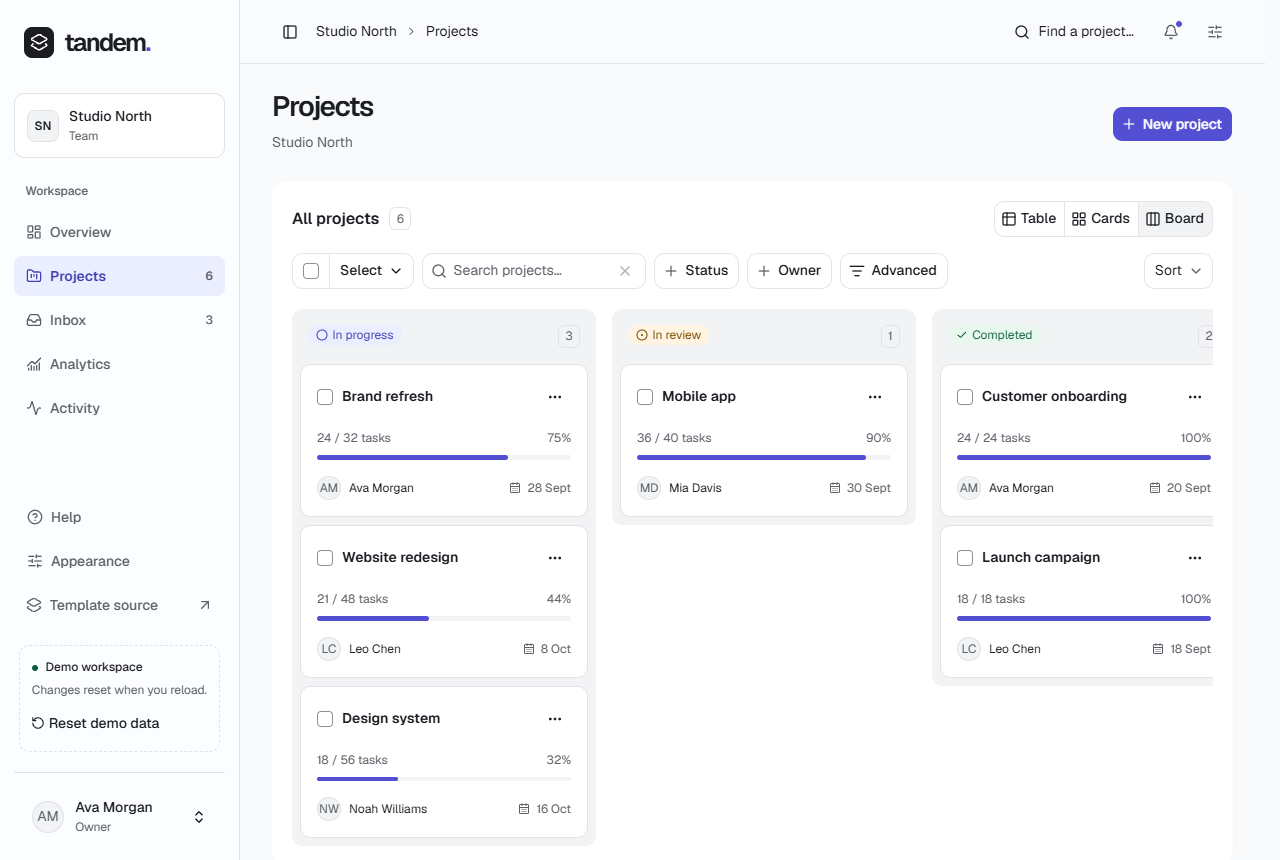
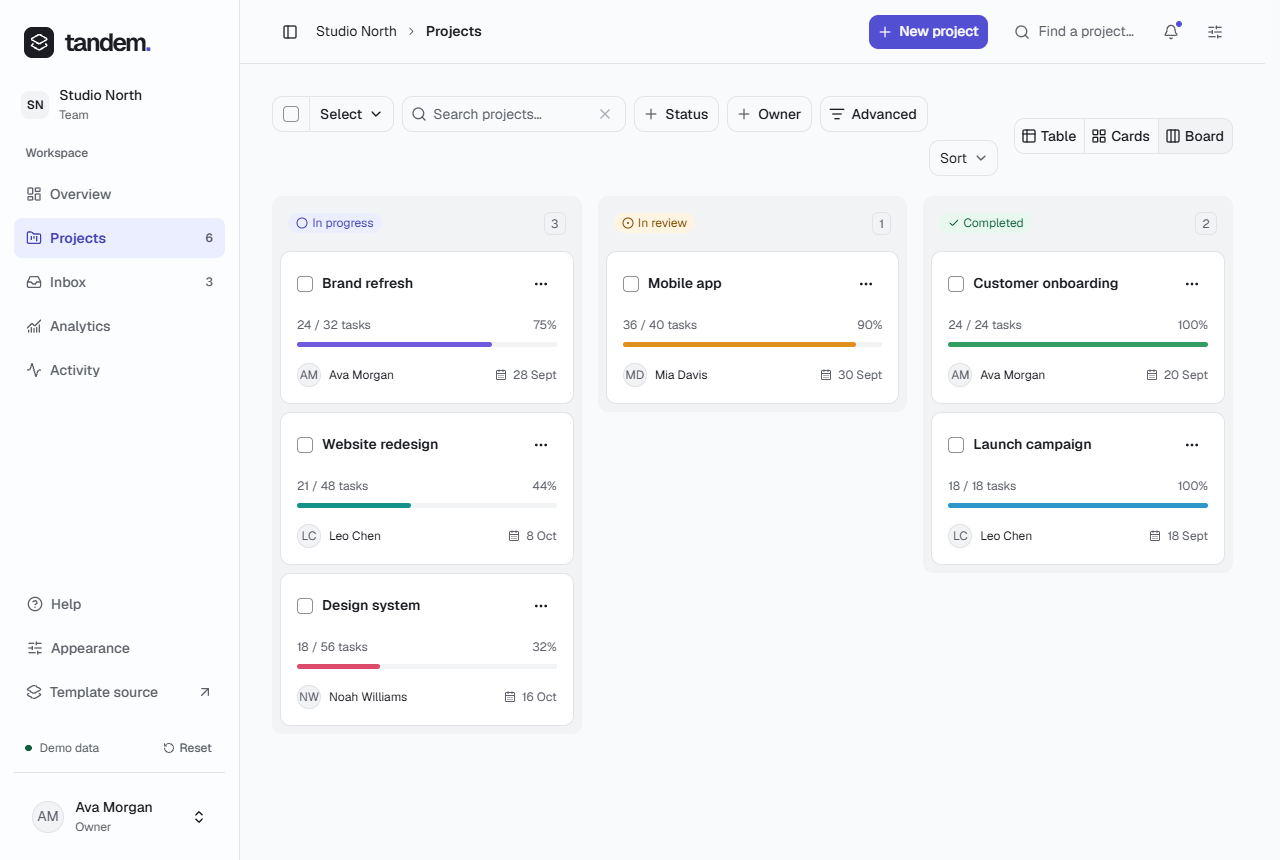
Colour the charts and add consistent motion
Map chart tokens 2-5 to the categorical hues so multi-series charts are
no longer grey, draw the completion trend as a smooth monotone curve
with the latest value marked, and give each project's bar its own hue,
thinner with rounded ends.

Add motion tokens (--motion-fast, --ease-standard) for hover transitions
on navigation, rows and the account trigger, and a short fade when
switching Table, Cards and Board; reduced motion still removes it.

Refresh the product screenshots for the updated workspace.

Validation: Analytics in light and Overview in dark at 1440px; 92
tests, TypeScript, ESLint, Prettier and the build pass; anti-slop
findings unchanged.

diff --git a/src/features/overview/completion-chart.tsx b/src/features/overview/completion-chart.tsx
@@ -129,7 +129,7 @@ export function CompletionChart({
                   <stop
                     offset="0%"
                     stopColor="var(--color-completed)"
-                    stopOpacity={0.18}
+                    stopOpacity={0.24}
                   />
                   <stop
                     offset="100%"
@@ -162,11 +162,18 @@ export function CompletionChart({
                 }
               />
               <Area
-                type="linear"
+                type="monotone"
                 dataKey="completed"
                 stroke="var(--color-completed)"
                 fill={`url(#${gradientId})`}
                 strokeWidth={2}
+                dot={(dot) => (
+                  <LatestPoint
+                    key={dot.index}
+                    {...dot}
+                    last={series.length - 1}
+                  />
+                )}
                 isAnimationActive={false}
               />
             </AreaChart>
@@ -188,5 +195,31 @@ export function CompletionChart({
         </Button>
       </CardFooter>
     </Card>
+  )
+}
+
+/** Marks the most recent day; earlier days stay part of the line. */
+function LatestPoint({
+  cx,
+  cy,
+  index,
+  last,
+}: {
+  cx?: number
+  cy?: number
+  index?: number
+  last: number
+}) {
+  if (index !== last || cx === undefined || cy === undefined) return <g />
+
+  return (
+    <circle
+      cx={cx}
+      cy={cy}
+      r={4}
+      fill="var(--color-completed)"
+      stroke="var(--card)"
+      strokeWidth={2}
+    />
   )
 }

diff --git a/src/features/analytics/project-breakdown.tsx b/src/features/analytics/project-breakdown.tsx
@@ -1,5 +1,13 @@
 import { useMemo, type ReactNode } from "react"
-import { Bar, BarChart, XAxis, YAxis, CartesianGrid, LabelList } from "recharts"
+import {
+  Bar,
+  BarChart,
+  CartesianGrid,
+  Cell,
+  LabelList,
+  XAxis,
+  YAxis,
+} from "recharts"
 import {
   ChartContainer,
   ChartTooltip,
@@ -11,11 +19,14 @@ import { BreakdownCard } from "./breakdown-card"
 
 export function ProjectBreakdown({
   rows,
+  colorFor,
   renderName,
   showData,
   onShowDataChange,
 }: {
   rows: CompletionGroup[]
+  /** Each bar takes its project's own hue. */
+  colorFor: (row: CompletionGroup) => string
   renderName: (row: CompletionGroup) => ReactNode
   showData: boolean
   onShowDataChange: (show: boolean) => void
@@ -69,10 +80,13 @@ export function ProjectBreakdown({
             <Bar
               dataKey="completed"
               fill="var(--color-completed)"
-              radius={3}
-              maxBarSize={24}
+              radius={999}
+              maxBarSize={14}
               isAnimationActive={false}
             >
+              {rows.map((row) => (
+                <Cell key={row.id} fill={colorFor(row)} />
+              ))}
               <LabelList
                 dataKey="completed"
                 position="right"

diff --git a/src/kit/styles/theme.css b/src/kit/styles/theme.css
@@ -14,6 +14,9 @@
   /* Text-entry size; responsive.css adjusts it by width and pointer. */
   --control-font-size: var(--text-section);
   --control-gap: 0.5rem;
+  /* Motion: brief and consistent; responsive.css removes it for reduced motion. */
+  --motion-fast: 150ms;
+  --ease-standard: cubic-bezier(0.2, 0.8, 0.2, 1);
   --content-gap: 1rem;
   --stack-gap: 1.25rem;
   --item-padding: 0.75rem;
@@ -40,10 +43,10 @@
   --secondary: oklch(0.97 0 0);
   --secondary-foreground: oklch(0.205 0 0);
   --destructive: oklch(0.577 0.245 27.325);
-  --chart-2: oklch(0.556 0 0);
-  --chart-3: oklch(0.439 0 0);
-  --chart-4: oklch(0.371 0 0);
-  --chart-5: oklch(0.269 0 0);
+  --chart-2: var(--hue-teal);
+  --chart-3: var(--hue-amber);
+  --chart-4: var(--hue-rose);
+  --chart-5: var(--hue-green);
   /* Categorical hues identify records (projects, people, chart series). */
   --hue-violet: oklch(0.56 0.19 285);
   --hue-teal: oklch(0.6 0.1 190);

diff --git a/src/features/analytics/analytics-page.tsx b/src/features/analytics/analytics-page.tsx
@@ -122,6 +122,11 @@ export function AnalyticsPage({
           <div className="analytics-breakdowns">
             <ProjectBreakdown
               rows={data.projects}
+              colorFor={(row) => {
+                const color = projects.find((item) => item.id === row.id)?.color
+
+                return color ? `var(--hue-${color})` : "var(--chart-1)"
+              }}
               renderName={renderProject}
               showData={projectView === "data"}
               onShowDataChange={(show) =>

diff --git a/src/styles/projects.css b/src/styles/projects.css
@@ -177,3 +177,15 @@ progress::-moz-progress-bar {
 .projects-card[data-surface="plain"] .project-board-content {
   padding-inline: 0;
 }
+/* Switching Table, Cards and Board fades the new view in. */
+@media (prefers-reduced-motion: no-preference) {
+  .project-results > :first-child {
+    animation: project-view-in var(--motion-fast) var(--ease-standard);
+  }
+}
+@keyframes project-view-in {
+  from {
+    opacity: 0;
+    translate: 0 4px;
+  }
+}

diff --git a/src/styles/inbox.css b/src/styles/inbox.css
@@ -59,6 +59,9 @@
   justify-self: start;
 }
 /* Unread is the dot and title weight; the open conversation is a quiet surface. */
+.inbox-row {
+  transition: background-color var(--motion-fast) var(--ease-standard);
+}
 .inbox-row:hover {
   background: color-mix(in oklch, var(--muted) 55%, transparent);
 }

diff --git a/src/kit/styles/shell.css b/src/kit/styles/shell.css
@@ -281,3 +281,10 @@
   object-fit: cover;
   border-radius: inherit;
 }
+.nav-link,
+.nav-action,
+.account-menu-trigger {
+  transition:
+    background-color var(--motion-fast) var(--ease-standard),
+    color var(--motion-fast) var(--ease-standard);
+}

diff --git a/docs/design-system.md b/docs/design-system.md
@@ -64,7 +64,9 @@ Keep every new or enlarged hand-maintained code file within the user's 300-line 
 
 **Workspace page frame (2026-09-28).** The top bar's current breadcrumb item is the visible page title. Section pages (Overview, Projects, Inbox, Analytics, Activity, Settings) keep an equivalent screen-reader `h1` and add no visible heading or subtitle row. A page's primary action and short context go into the top bar through the kit's `PageActions`/`PageAction`; `PageAction` shows only its icon on narrow screens while keeping its label as the accessible name. Controls that scope the whole page (Analytics filters) stay in the content. Record pages (project detail and editor) keep their content heading because it carries editing and status. Primary data views sit on the canvas (`ProjectsTableView surface="plain"`); dashboard compositions such as Overview keep their cards. The sidebar shows the workspace as a plain row and the demo notice as one line with Reset.
 
-**Colour with meaning (2026-09-28).** Records get identity colour, surfaces don't. `theme.css` defines six categorical hues (`--hue-*`, light and dark). A project's hue marks its dot (a small rounded square, distinct from round status and unread dots), its progress bar and, later, its chart series; related projects appear as a dot plus muted name rather than a bordered pill. Grey fills no longer separate regions: table headers, card footers (the kit `CardFooter` keeps only its hairline) and comparison groups use type and hairlines. Inbox marks unread with the dot and title weight, and the open conversation with a quiet surface, plus a forced-colors outline.
+**Colour with meaning (2026-09-28).** Records get identity colour, surfaces don't. `theme.css` defines six categorical hues (`--hue-*`, light and dark). A project's hue marks its dot (a small rounded square, distinct from round status and unread dots), its progress bar and, later, its chart series; related projects appear as a dot plus muted name rather than a bordered pill. Grey fills no longer separate regions: table headers, card footers (the kit `CardFooter` keeps only its hairline) and comparison groups use type and hairlines. Inbox marks unread with the dot and title weight, and the open conversation with a quiet surface, plus a forced-colors outline. Charts use the same palette: `--chart-1` is the accent and `--chart-2`…`--chart-5` map to hues, per-project series use the project's hue, lines are smooth (monotone, so no overshoot) with the latest value marked, and bars are thin with rounded ends.
+
+**Motion (2026-09-28).** `--motion-fast` (150ms) and `--ease-standard` time hover transitions on navigation, rows and the account trigger, and a short fade when switching Table, Cards and Board. `responsive.css` reduces all motion when the person asks for it.
 
 ## Token scope
 
